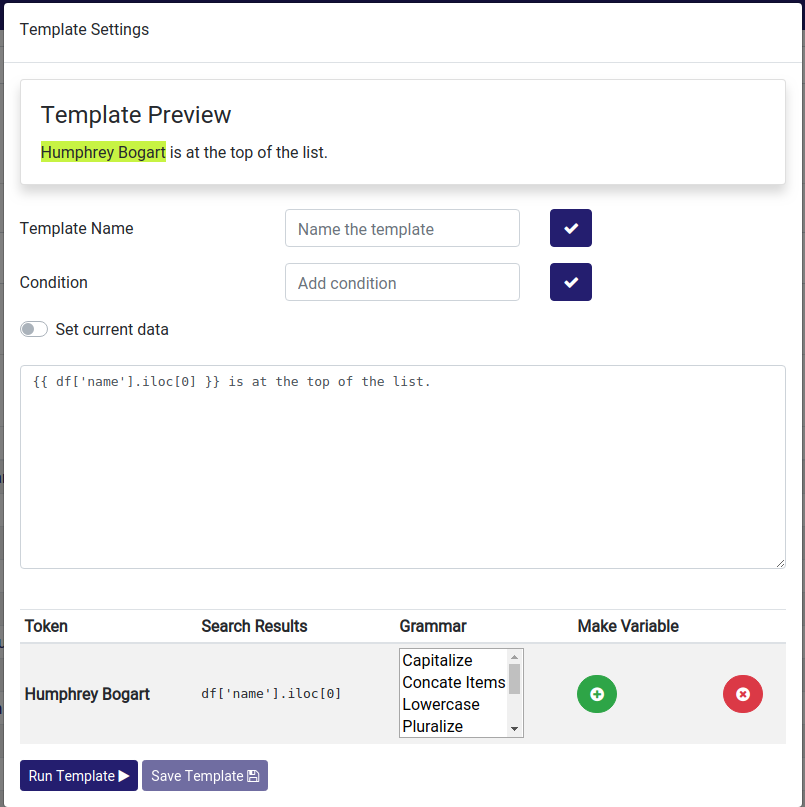
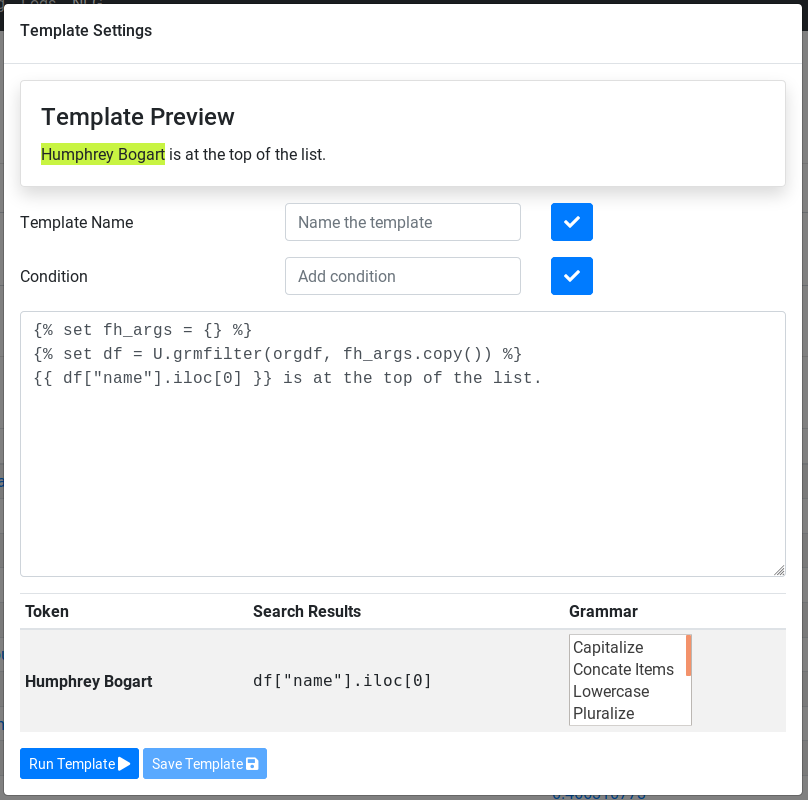
Add GIFs/videos for NLG docs

diff --git a/gramex/apps/nlg/body.html b/gramex/apps/nlg/body.html
@@ -50,7 +50,7 @@
             <div class="col">
               <select name="narrative" id="narrative-select" class="form-control" form="nlg-init-form">
                 {% for filename in NLG_NARRATIVES %}
-                <option value="{{ filename }}">{{ filename }}</option>
+                <option value="{{ filename }}">{{ op.basename(filename) }}</option>
                 {% end %}
                 <option value="" selected hidden>Select Narrative</option>
               </select>
@@ -104,10 +104,10 @@
       Save Config
       <i class="fa fa-save"></i>
       </button>
-      <button id="share-narrative-btn" type="button" title="Share Narrative"
+      <button id="share-narrative-btn" type="button" title="Embed Narrative"
       class="btn btn-primary">
-          Share
-          <i class="fa fa-share"></i>
+          Embed
+          <i class="fa fa-code"></i>
       </button>
       <div class="alert alert-success alert-dismissable collapse" role="alert">
         <strong>Saved!</strong>
@@ -138,28 +138,8 @@
   {% from os.path import basename %}
   {% set user_dir = basename(get_user_dir(handler)) %}
   <div class="formhandler" data-src="{{ nlg_base }}/preview/{{ user_dir }}/{{ dsid }}"></div>
-
   {% end %}
-  <!--
-  <button id="clear-tmpls" title="Clear Narrative" type="button" class="btn btn-danger">
-      <i class="fa fa-trash"></i>
-  </button>
-  -->
-  <div class="modal fade" id="share-modal" role="dialog">
-    <div class="modal-dialog modal-lg">
-        <div class="modal-content">
-            <pre>
-              <code class="language-html" id="share-narrative-url"
-              class="text- monospace"></code>
-            </pre>
-            <button id="copy-narrative-url" title="Copy To Clipboard"
-            type="button" class="btn btn-primary">
-                Copy Embed Code
-                <i class="fa fa-copy"></i>
-            </button>
-        </div>
-    </div>
-  </div>
+
   <div class="modal fade" id="template-settings" role="dialog">
     <div class="modal-dialog modal-lg">
       <div class="modal-content">
@@ -319,8 +299,6 @@
   .on('focus', "#edit-template", (e) => {$('#save-template').attr('disabled', false)})
   .on('click', "#condition-btn", addCondition)
   .on('click', "#share-narrative-btn", shareNarrative)
-  .on("click", "#copy-editor-url", (e) => {copyToClipboard('share-editor-url')})
-  .on("click", "#copy-narrative-url", (e) => {copyToClipboard('share-narrative-url')})
   .on('click', "#tmpl-name-btn", addName)
 
   $("#textbox").attr('cols', 119)

diff --git a/gramex/apps/nlg/nlg.js b/gramex/apps/nlg/nlg.js
@@ -466,20 +466,17 @@ function getNarrativeEmbedCode() {
 function shareNarrative() {
   // Launch the "Share" modal.
   if (saveConfig()) {
-    $('#share-narrative-url').text(getNarrativeEmbedCode())
-    $('#share-modal').modal({ 'show': true })
+    copyToClipboard(getNarrativeEmbedCode())
   }
 }
 
-function copyToClipboard(elem_id){
-  var $temp = $("<div>");
-  $("body").append($temp);
-  $temp.attr("contenteditable", true)
-        .html($('#' + elem_id).html()).select()
-        .on("focus", function() { document.execCommand('selectAll',false,null) })
-        .focus();
-  document.execCommand("copy");
-  $temp.remove();
+function copyToClipboard(text) {
+  // insert `text` in a temporary element and copy it to clipboard
+  var tempTextArea = $('<textarea>')
+  $('body').append(tempTextArea)
+  tempTextArea.val(text).select()
+  document.execCommand('copy')
+  tempTextArea.remove()
 }
 
 function findAppliedInflections(tkobj) {

diff --git a/gramex/apps/guide/nlg/README.md b/gramex/apps/guide/nlg/README.md
@@ -58,7 +58,7 @@ Users can now type English text into the IDE and add it to the narrative. This
 automatically templatizes the text, and adds the template to the narrative. For
 example, typing "Humphrey Bogart is at the top of the list." does this:
 
-![](images/nlg-ide-toplist.png)
+![](images/nlg-ide-toplist.gif)
 
 This means that the input statement has been templatized and added
 to the narrative. The part of the input text that was successfully templatized
@@ -67,35 +67,50 @@ the [Template Settings] modal.
 
 
 ## Template Settings
-![](images/nlg-template-settings.png)
+<img src="images/nlg-template-settings.png" height="404" width="400">
 
 This dialog provides configuration options for all template attributes:
 
-1. **Template Name** - Each template can optionally be named.
-2. **Condition** - Any Python expression which evaluates to a boolean may be set as
-   a condition, which controls whether the template is rendered.
-3. The actual Tornado template itself can be edited. Any valid Tornado template
-   is acceptable.
-4. **Token Settings** - Every token from the input text that finds a match in
-   the dataset or in FormHandler arguments (i.e. every token that is highlighted
-   in the preview) is converted into a
-   [template expression](https://www.tornadoweb.org/en/stable/template.html#syntax-reference).
-   Such tokens have their own attributes, as follows:
-    - **Token search results** - if a token is found in more than one place (say, a
-      dataframe cell as well as a FormHandler argument), this setting allows the
-      user to select the right result.
-    - **Grammar options** - the NLG engine may automatically apply certain
-      string formatting or lexical operations to the template expression to make
-      it match the input text. Any number of these operations can be enabled /
-      disabled through this setting.
-    - **Make variable** - a token may be set as a local variable within the
-      template.
-    - **Ignore** - the template expression corresponding to the token may be
-      ignored, and set back to the literal input text.
-5. **Run Template** - Run the current template against the dataframe and preview
-   its output.
-6. **Save Template** - Save the template. Note that this is required if the
-   template has been manually edited in the textarea.
+### Template Name
+
+Each template can optionally be named.
+
+<iframe width="560" height="315" src="https://www.youtube.com/embed/fexUWzXpyPU" frameborder="0" allow="accelerometer; autoplay; encrypted-media; gyroscope; picture-in-picture" allowfullscreen></iframe>
+
+### Condition
+
+Any Python expression which evaluates to a boolean may be set as a condition,
+which controls whether the template is rendered.
+
+<iframe width="560" height="315" src="https://www.youtube.com/embed/V1q7M0PuXUM" frameborder="0" allow="accelerometer; autoplay; encrypted-media; gyroscope; picture-in-picture" allowfullscreen></iframe>
+
+
+### Editing the Tornado template
+
+The actual Tornado template itself can be edited. Any valid Tornado template is
+acceptable. After editing the template, you can preview it's result by clicking
+on the 'Run Template' button at the bottom.
+
+<iframe width="560" height="315" src="https://www.youtube.com/embed/5IJjCcFO7JU" frameborder="0" allow="accelerometer; autoplay; encrypted-media; gyroscope; picture-in-picture" allowfullscreen></iframe>
+
+
+### Token Settings
+
+Every token from the input text that finds a match in the dataset or in
+FormHandler arguments (i.e. every token that is highlighted in the preview)
+is converted into a
+[template
+expression](https://www.tornadoweb.org/en/stable/template.html#syntax-reference).
+
+Such tokens have their own attributes, as follows:
+
+* **Token search results** - if a token is found in more than one place (say, a
+  dataframe cell as well as a FormHandler argument), this setting allows the
+  user to select the right result.
+* **Grammar options** - the NLG engine may automatically apply certain
+  string formatting or lexical operations to the template expression to make
+  it match the input text. Any number of these operations can be enabled /
+  disabled through this setting.
 
 
 ## Naming and Saving a Narrative
@@ -104,14 +119,12 @@ Once a narrative has been fully configured, it can be named and saved. Doing so
 causes it to appear in the narrative dropdown menu on the app.
 
 
-## Sharing a Narrative
+## Embedding a narrative in an web page
 
-After a narrative has been named and saved, it be shared in two modes:
-
-1. **IDE mode** - This option lets users copy a URL that redirects to the
-   IDE, with the current dataset and the current narrative set in the session.
-2. **Embed mode** - Copy an HTML snippet to embed into a page which contains a
-   Formhandler table. The template will render live as the table changes.
+After a narrative has been named and saved, it be embedded in any HTML page.
+Click on the "Embed" button and to copy the embed code and paste it in any HTML
+file. It will work as long as there is a formhandler element present on the
+page, and is connected to the embed code via an event listener.
 
 
 ## Authenticating the NLG App
